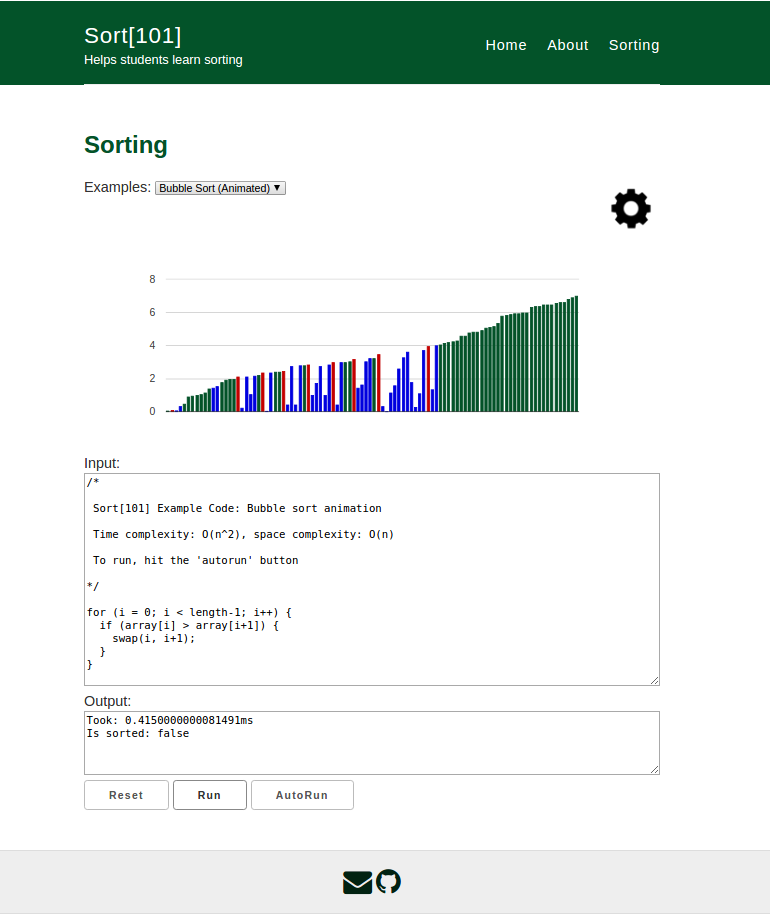
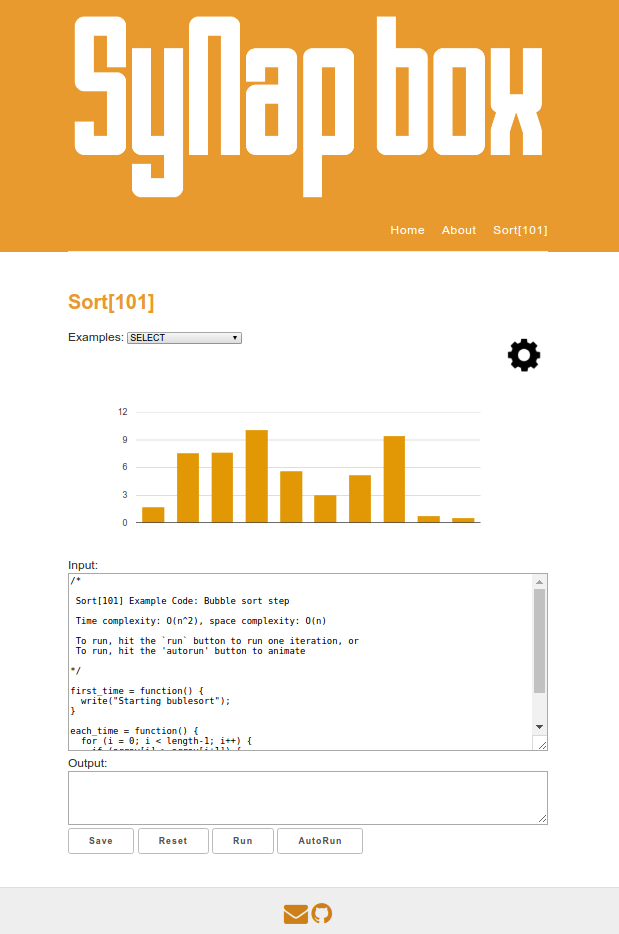
Updated readmes

diff --git a/_layouts/home.html b/_layouts/home.html
@@ -22,14 +22,11 @@
         <div class="wrapper-masthead">
          <div class="container">
            <header class="masthead clearfix">
-             <div class="site-info">
-               <h1 class="site-name"><a href="{{ site.baseurl }}/">{{ site.name }}</a></h1>
-               <p class="site-description">{{ site.description }}</p>
-             </div>
+             <img src="/images/title.jpg"/>
              <nav>
                <a href="{{ site.baseurl }}/">Home</a>
                <a href="{{ site.baseurl }}/about">About</a>
-               <a href="{{ site.baseurl }}/sorting">Sorting</a>
+               <a href="{{ site.baseurl }}/sorting">Sort[101]</a>
              </nav>
            </header>
          </div>
@@ -41,7 +38,7 @@
             <div class="centered">
               <ul class="ch-grid">
                 <li>
-                    <div class="ch-item ch-img-1">				
+                    <div class="ch-item">				
                         <div class="ch-info-wrap">
                             <div class="ch-info">
                                 <div class="ch-info-front ch-img-1"></div>

diff --git a/_layouts/default.html b/_layouts/default.html
@@ -22,14 +22,15 @@
         <div class="wrapper-masthead">
          <div class="container">
            <header class="masthead clearfix">
-             <div class="site-info">
+             <img src="/images/title.jpg"/>
+             <!--<div class="site-info">
                <h1 class="site-name"><a href="{{ site.baseurl }}/">{{ site.name }}</a></h1>
                <p class="site-description">{{ site.description }}</p>
-             </div>
+             </div>-->
              <nav>
                <a href="{{ site.baseurl }}/">Home</a>
                <a href="{{ site.baseurl }}/about">About</a>
-               <a href="{{ site.baseurl }}/sorting">Sorting</a>
+               <a href="{{ site.baseurl }}/sorting">Sort[101]</a>
              </nav>
            </header>
          </div>

diff --git a/_includes/sortcode.html b/_includes/sortcode.html
@@ -3,6 +3,7 @@
 
 <script>
 
+  // initialize once the libraries have loaded
   google.charts.setOnLoadCallback(init);
 
   /*
@@ -47,6 +48,7 @@
 
   // returns true if the array is sorted, false otherwise.
   function isSorted() {
+    // this will ALWAYS be < x for x being any real number.
     var last_x = -Infinity;
     for (x in array) {
       if (array[last_x] > array[x]) {

diff --git a/_sass/_variables.scss b/_sass/_variables.scss
@@ -23,7 +23,7 @@ $blue: #4183C4;
 // STEM color
 //$mono-color: #035329;
 // SYNAP
-$mono-color: #E29805;
+$mono-color: #E89A2F;
 
 $hl-color: $darkGray;              // header link color (author name and posted on date) for blog post meta 
 $navbar-hover-color:$gray;        // navbar hover color (site name and navbar links hover color)

diff --git a/_sass/_jekyll-mono.scss b/_sass/_jekyll-mono.scss
@@ -240,6 +240,7 @@ button.button-primary:focus {
 
 .ch-img-1 { 
 	background-image: url(#{$avatar});
+	background-size: 500%;
 }
 
 .ch-info h3 {

diff --git a/index.md b/index.md
@@ -2,9 +2,24 @@
 layout: home
 ---
 
+# Synap
+
+## What is Synap?
+
+Synap is a learning management system for non-traditional education.
+
+Synap focuses on real world applications rather than preparing for tests, and textbook education. While geared mainly towards computer-oriented studies, synap can be used for any number of classes.
+
+We've created a small (and much simpler) example of a classroom, Sort[101]. I'll explain how to use it later down.
+
+Synap could be used to support a much larger school ecosystem once developed, but we leave this small visualization as an example
+
+
+# Sort[101]
+
 Do you need help understanding or visualizing sorting algorithms?
 
-If you do, Synap is for you!
+If you do, Sort[101] is for you!
 
 <br/>
 
@@ -14,7 +29,7 @@ Here is an example of a Synap class (to learn sorting):
 
 You can see the basics here. Users type code (JavaScript) into the input box, and then hit `run` or `autorun` buttons. 
 
-After this, the code will run (if you use autorun, the example is animated) and (hopefully) will sort the graph.
+After this, the code will run (if you use autorun, the example is animated) and (hopefully) sort the graph.
 
 You know the graph is sorted once every bar is colored green.
 
@@ -23,16 +38,16 @@ You know the graph is sorted once every bar is colored green.
 
 There are three colors implemented right now. To colors and animations, design your code to run in `autorun` mode (your entire code is ran over and over).
 
-  * <span style="color: #c40000;">Red</span>: The bars have not been swapped, and they are not in order.
-  * <span style="color: #06a656;">Green</span>: The bar after the current one is larger, and the one before is smaller. This shows that green bars are ordered among other green bars.
-  * <span style="color: #0000df;">Blue</span>: The bars have just been swapped (using the swap() method)
+  * Orange: sorted, (or starting position)
+  * Gray: being switched
+  * Red: is larger than the bar before it (out of order)
 
 In this example:
 
 {: .center}
 ![shot 2]({{site.baseurl}}images/shot2.png)
 
-The right hand side is already somewhat sorted (this is to be expected with a bubble sort), a large portion of the mid range bars are still being switched, and the ones on the very left are somewhat in order.
+The left hand side is already somewhat sorted (this is the process of insertion sort), and the ones on the right are not in order.
 
 
 ## Settings
@@ -51,7 +66,7 @@ The same is true with your code, so if you run some code, then refresh the page,
 
 ## Example
 
-All of these pictures so far have been using the `Animated Bubblesort` code, which can be found by going to the [sorting page](./sorting/), and selecting "Animated Bubblesort" from the `Examples` list, then click `autorun`.
+All of these pictures so far have been using the `Animated Insertion Sort` code, which can be found by going to the [sorting page](./sorting/), and selecting "Animated Insertion Sort" from the `Examples` list, then click `autorun`.
 
 You should see the bars slowly moving about and changing colors. You can see all the code in the `input` box.
 

diff --git a/about.md b/about.md
@@ -10,10 +10,32 @@ Welcome to our CodeTN website.
 
 This is a proof of concept of Synap.
 
+## Synap
+
 Synap is a learning tool designed specifically for self motivated students, contrary to the public schools system. It is based on the belief that students reach their maximum potential when they are given the ample tools and inspiration. Our system has no tests, only projects. Individuals learn by performing projects they find interesting. If they need help, plentiful resources are easily accessible: teachers, articles, or interactive tools.
 
-For this example, we have Sort[101]. This is a program that vizualizes and emulates sorting alogrithms. Students are encouraged to find or generate new alogrithms.
+This allows students to study what they find interesting, and what is appropriate for the real world. Teaching real world applications is arguably the most important part of teaching, because that is what fuels student motivations. Without it, students would stop caring the second they graduate.
 
-We use Jekyll (for website hosting), Google Charts (for visualizing), and JavaScript (for running sorting algorithms).
+However, with synap, students who enjoy a subject area will not be limited by a classroom or a textbook. The teacher will answer questions, and very low stress projects are implemented so a student actually learns something rather than just preparing for a test.
+
+For an example course, we have Sort[101]. This is a program that vizualizes and emulates sorting alogrithms. Students are encouraged to find or generate new alogrithms.
+
+### Sort[101]
+
+Synap would simply be a platform for teachers to host classes on. While synap would be tailored for computer-oriented classes, it could be used for any course.
+
+In this example, there are colorized bars that represent:
+
+  * Orange: sorted, (or starting position)
+  * Gray: being switched
+  * Red: is larger than the bar before it (out of order)
+
+Students can write code (or look at examples) to sort arrays. There are animated examples, but there are also examples which take the minimum amount of time.
+
+
+## Technical
+
+We use GH-Pages (for website hosting), Jekyll (for static site generator), Google Charts (for visualizing), and JavaScript (for running sorting algorithms).
+
 
 

diff --git a/README.md b/README.md
@@ -1,3 +1,5 @@
 # CodeTN
 
 Our sorting website for CodeTN
+
+See it at [knoxschools.us](knoxschools.us)
